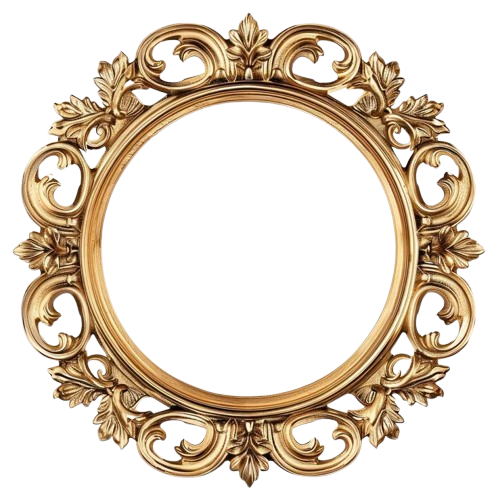
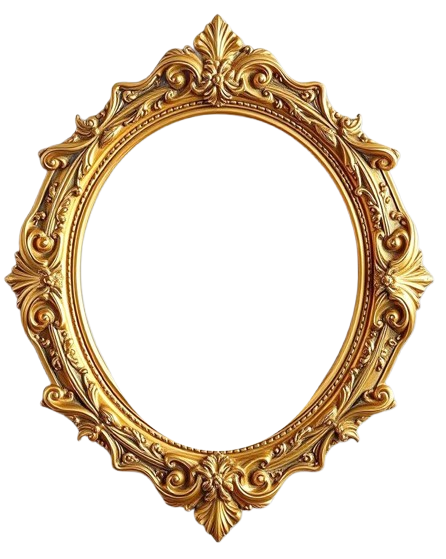
adicionado molduras na seção de palestrantes

diff --git a/assets/css/override.css b/assets/css/override.css
@@ -27,7 +27,6 @@
 .suspense::after,
 .pillars::after,
 .quote-section::after,
-.idealizadora-section::after,
 .diamantes-section::after,
 .urgencia-section::after,
 .waitlist::after {
@@ -243,6 +242,7 @@
 ══════════════════════════════════════════════════════════ */
 .idealizadora-section {
   padding: 7rem 0;
+  background: linear-gradient(180deg, var(--color-teal) 0%, var(--color-teal-mid) 50%, var(--color-teal) 100%);
   position: relative;
   z-index: 2;
 }
@@ -378,4 +378,233 @@
 /* Reduzir padding top da seção sobre */
 .suspense {
   padding-top: 2rem !important;
+}
+
+
+/* Cor branca para data/local e "Imersão" na hero */
+.hero__eyebrow {
+  color: var(--color-cream) !important;
+}
+
+.hero__title-eyebrow {
+  color: var(--color-cream) !important;
+}
+
+
+/* Molduras ornamentadas na seção autoridade */
+.speakers-grid {
+  display: grid !important;
+  grid-template-columns: repeat(4, 1fr) !important;
+  gap: 3rem !important;
+  max-width: 1200px !important;
+  margin: 4rem auto 10rem auto !important;
+}
+
+.speaker-card {
+  position: relative !important;
+  background: transparent !important;
+  border: none !important;
+  box-shadow: none !important;
+  overflow: visible !important;
+  display: flex !important;
+  flex-direction: column !important;
+  align-items: center !important;
+  aspect-ratio: 3/4;
+}
+
+.speaker-card__frame {
+  position: absolute;
+  top: 0;
+  left: 0;
+  width: 100%;
+  height: 100%;
+  object-fit: contain;
+  z-index: 3;
+  pointer-events: none;
+}
+
+.speaker-card__image {
+  position: absolute;
+  top: 50%;
+  left: 50%;
+  transform: translate(-50%, -50%);
+  display: flex;
+  align-items: center;
+  justify-content: center;
+  background: transparent !important;
+  z-index: 1;
+  overflow: hidden;
+}
+
+/* Formato retangular para cards 1 e 4 */
+.speaker-card:nth-child(1) .speaker-card__image,
+.speaker-card:nth-child(4) .speaker-card__image {
+  width: 62%;
+  height: 72%;
+  border-radius: 4px;
+}
+
+/* Formato oval para card 2 */
+.speaker-card:nth-child(2) .speaker-card__image {
+  width: 62%;
+  height: 75%;
+  border-radius: 50%;
+  clip-path: ellipse(50% 50% at 50% 50%);
+}
+
+.speaker-card:nth-child(2) .speaker-card__photo {
+  object-position: center 30%;
+}
+
+/* Formato circular para card 3 */
+.speaker-card:nth-child(3) .speaker-card__image {
+  width: 64%;
+  height: 64%;
+  border-radius: 50%;
+  aspect-ratio: 1;
+  top: 50%;
+  left: 50%;
+}
+
+.speaker-card:nth-child(3) .speaker-card__photo {
+  object-position: center 35%;
+  transform: scale(1.4);
+}
+
+.speaker-card__photo {
+  position: absolute;
+  top: 0;
+  left: 0;
+  width: 100%;
+  height: 100%;
+  object-fit: cover;
+  object-position: center;
+  opacity: 0;
+  transition: opacity 0.6s ease;
+  z-index: 1;
+}
+
+.speaker-card__overlay {
+  position: absolute;
+  top: 0;
+  left: 0;
+  width: 100%;
+  height: 100%;
+  background: linear-gradient(135deg, rgba(8,8,8,0.95) 0%, rgba(20,20,20,0.98) 100%);
+  display: flex;
+  align-items: center;
+  justify-content: center;
+  z-index: 2;
+  transition: opacity 0.6s ease;
+}
+
+.speaker-card__image::before {
+  display: none !important;
+}
+
+.speaker-card__mystery {
+  font-size: 4rem !important;
+  color: var(--color-gold) !important;
+  opacity: 0.6 !important;
+  transition: all 0.3s ease !important;
+}
+
+/* Informações do speaker */
+.speaker-card__info {
+  position: absolute;
+  bottom: -4rem;
+  left: 50%;
+  transform: translateX(-50%);
+  text-align: center;
+  width: 100%;
+  opacity: 0;
+  transition: all 0.6s ease;
+  pointer-events: none;
+  z-index: 4;
+}
+
+.speaker-card__name {
+  font-family: var(--font-serif);
+  font-size: 1.1rem;
+  color: var(--color-gold-light);
+  margin-bottom: 0.3rem;
+  font-weight: 600;
+}
+
+.speaker-card__specialty {
+  font-family: var(--font-sans);
+  font-size: 0.85rem;
+  color: rgba(247,240,230,0.7);
+  letter-spacing: 0.05em;
+}
+
+/* Estado revelado - permanece após hover */
+.speaker-card.revealed .speaker-card__photo {
+  opacity: 1 !important;
+}
+
+.speaker-card.revealed .speaker-card__overlay {
+  opacity: 0 !important;
+  pointer-events: none !important;
+}
+
+.speaker-card.revealed .speaker-card__info {
+  opacity: 1 !important;
+  pointer-events: auto !important;
+}
+
+/* Efeito hover - revela a foto */
+.speaker-card:hover .speaker-card__photo {
+  opacity: 1 !important;
+}
+
+.speaker-card:hover .speaker-card__overlay {
+  opacity: 0 !important;
+}
+
+.speaker-card:hover .speaker-card__info {
+  opacity: 1 !important;
+}
+
+.speaker-card:hover {
+  transform: translateY(-8px) !important;
+}
+
+.speaker-card:hover .speaker-card__frame {
+  filter: drop-shadow(0 10px 30px rgba(201,168,76,0.4)) !important;
+}
+
+/* Adicionar espaço extra na seção para acomodar os nomes */
+.quote-section {
+  padding-bottom: 10rem !important;
+}
+
+@media (max-width: 1024px) {
+  .speakers-grid {
+    grid-template-columns: repeat(2, 1fr) !important;
+    gap: 2.5rem !important;
+  }
+}
+
+@media (max-width: 768px) {
+  .speakers-grid {
+    grid-template-columns: repeat(2, 1fr) !important;
+    gap: 2rem !important;
+  }
+  
+  .speaker-card__mystery {
+    font-size: 3rem !important;
+  }
+  
+  .speaker-card__name {
+    font-size: 0.95rem;
+  }
+  
+  .speaker-card__specialty {
+    font-size: 0.75rem;
+  }
+  
+  .speaker-card__info {
+    bottom: -3.5rem;
+  }
 }

diff --git a/index.html b/index.html
@@ -234,14 +234,6 @@
         </svg>
       </div>
 
-      <p class="hero__headline">
-        Um convite exclusivo foi enviado às mulheres mais promissoras<br />do mercado da beleza…
-      </p>
-      <p class="hero__subheadline">
-        Apenas aquelas que compreendem que não basta dominar técnicas — é preciso ocupar o lugar de destaque que lhes
-        pertence.
-      </p>
-
       <a href="#waitlist" class="btn btn--primary btn--glow">
         <span class="btn__shimmer"></span>
         <svg class="btn__icon" width="15" height="15" viewBox="0 0 24 24" fill="currentColor">
@@ -468,23 +460,55 @@
         
         <div class="speakers-grid">
           <div class="speaker-card">
+            <img src="assets/img/frame_rect_1.png" alt="Frame" class="speaker-card__frame">
             <div class="speaker-card__image">
-              <div class="speaker-card__mystery">?</div>
+              <img src="https://images.unsplash.com/photo-1580489944761-15a19d654956?w=400&h=500&fit=crop" alt="Speaker" class="speaker-card__photo">
+              <div class="speaker-card__overlay">
+                <div class="speaker-card__mystery">?</div>
+              </div>
+            </div>
+            <div class="speaker-card__info">
+              <h3 class="speaker-card__name">Nome da Especialista</h3>
+              <p class="speaker-card__specialty">Micropigmentação Avançada</p>
             </div>
           </div>
           <div class="speaker-card">
+            <img src="assets/img/frame_oval.png" alt="Frame" class="speaker-card__frame">
             <div class="speaker-card__image">
-              <div class="speaker-card__mystery">?</div>
+              <img src="https://images.unsplash.com/photo-1573496359142-b8d87734a5a2?w=400&h=500&fit=crop" alt="Speaker" class="speaker-card__photo">
+              <div class="speaker-card__overlay">
+                <div class="speaker-card__mystery">?</div>
+              </div>
+            </div>
+            <div class="speaker-card__info">
+              <h3 class="speaker-card__name">Nome da Especialista</h3>
+              <p class="speaker-card__specialty">Design de Sobrancelhas</p>
             </div>
           </div>
           <div class="speaker-card">
+            <img src="assets/img/frame_circular.png" alt="Frame" class="speaker-card__frame">
             <div class="speaker-card__image">
-              <div class="speaker-card__mystery">?</div>
+              <img src="https://images.unsplash.com/photo-1594744803329-e58b31de8bf5?w=400&h=500&fit=crop" alt="Speaker" class="speaker-card__photo">
+              <div class="speaker-card__overlay">
+                <div class="speaker-card__mystery">?</div>
+              </div>
+            </div>
+            <div class="speaker-card__info">
+              <h3 class="speaker-card__name">Nome da Especialista</h3>
+              <p class="speaker-card__specialty">Técnicas Avançadas</p>
             </div>
           </div>
           <div class="speaker-card">
+            <img src="assets/img/frame_rect_2.png" alt="Frame" class="speaker-card__frame">
             <div class="speaker-card__image">
-              <div class="speaker-card__mystery">?</div>
+              <img src="https://images.unsplash.com/photo-1607746882042-944635dfe10e?w=400&h=500&fit=crop" alt="Speaker" class="speaker-card__photo">
+              <div class="speaker-card__overlay">
+                <div class="speaker-card__mystery">?</div>
+              </div>
+            </div>
+            <div class="speaker-card__info">
+              <h3 class="speaker-card__name">Nome da Especialista</h3>
+              <p class="speaker-card__specialty">Posicionamento & Marketing</p>
             </div>
           </div>
         </div>

diff --git a/assets/js/script.js b/assets/js/script.js
@@ -660,4 +660,15 @@
     }
   })();
 
+  /* ─── 12. Speaker Card Reveal ─────────────────────────────── */
+  (function initSpeakerReveal() {
+    const speakerCards = document.querySelectorAll('.speaker-card');
+    
+    speakerCards.forEach(card => {
+      card.addEventListener('mouseenter', function() {
+        this.classList.add('revealed');
+      });
+    });
+  })();
+
 })();
